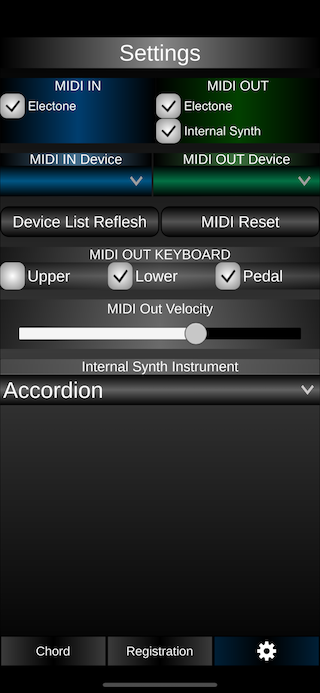
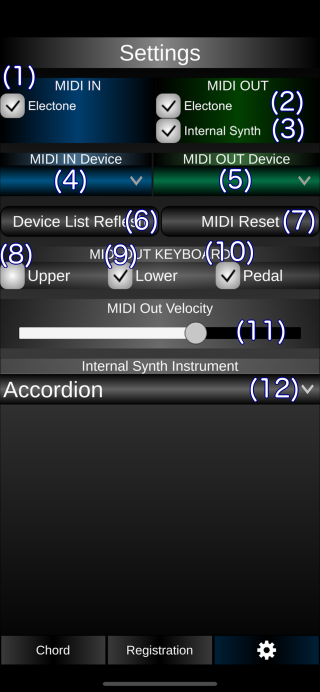
Update the document.

diff --git a/iEleChordsDocument.md b/iEleChordsDocument.md
@@ -2,12 +2,12 @@
 
 <img src="images/0000.png"/>
 
-## The first step to use this app.
+## Getting Started
 
-- Pressed the (8) button to select the root note.
-- Pressed the (9) button to select the chord.
+- Pressed the button (8) to select the root note.
+- Pressed the button (9) to select the chord.
 
-## The description of the buttons.
+## Operation buttons
 
 (1) Show the selected chord name.
 
@@ -29,19 +29,50 @@
 
 (10) Switch to this page.
 
-(11) Switch to the selecting Registration Memory buttons page.
+(11) Switch to the Registration Memory buttons page.
 
 (12) Switch to the settings page.
 
-## How to connect to the Electone.
+## How to connect to the Electone
 
 - Your iPhone could connecting to the Electone via USB and USB connector.
 - Use the [USB TO DEVICE] terminal installed on the Electone.
+- Goto Settings page in this app. Choice the Electone from 'MIDI IN Device' and 'MIDI OUT Device'.
 
-## The Registration Memory buttons page. 
+## Registration Memory buttons page
 
 <img src="images/0010.png"/>
 
-## The Settings page.
+・Press the button on this page to swith the Registration Memory on the Electone.
+
+・If you press the registration memory button on the  Electone, it will be reflected in the registration memory button on this page.
+
+## Settings page
 
 <img src="images/0020.png"/>
+
+## Operation buttons
+
+(1) Enable the midi input (from the Electone). 
+
+(2) Enable the midi output (to the Elctone). 
+
+(3) Enable the internal soft synth.
+
+(4) Select the midi input device. (Select the Electone device.)
+
+(5) Select the midi output device.(Select the Electone device.)
+
+(6) Refresh the midi input and output device list.
+
+(7) Reset the midi device.
+
+(8) Switch the midi output to the upper keyboard channel. 
+
+(9) Switch the midi output to the lower keyboard channel. 
+
+(10) Enable the midi output to the pedal keyboard channel for the root note. 
+
+(11) Set the midi velocity for the midi output channel.
+
+(12) Choice the instrument for the internal soft synth.
